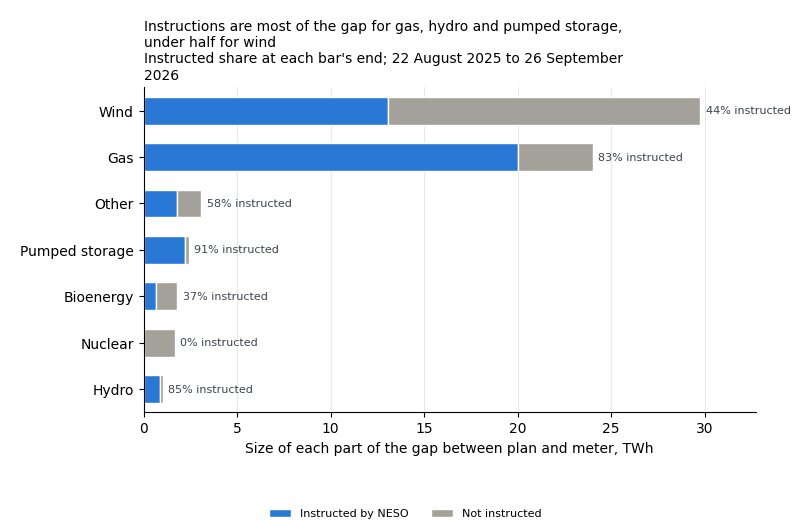
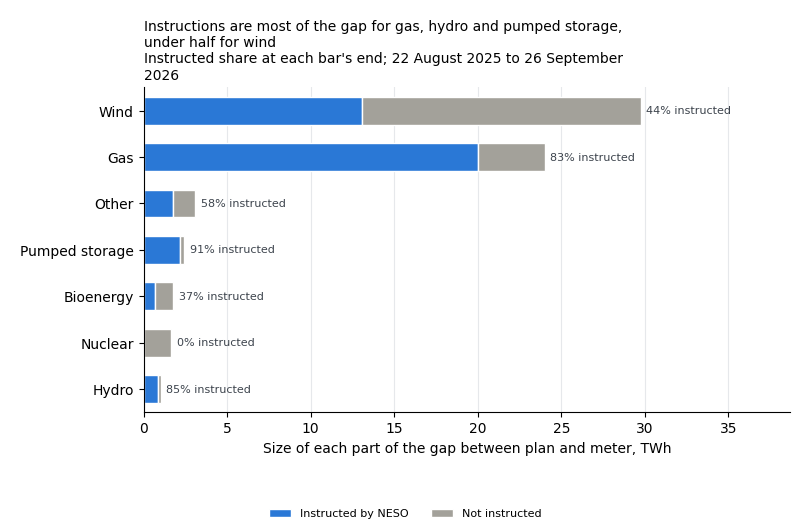
Chart PNGs: axis labels wrapped to fit, room for bar-end labels
The saved image is cut at the figure's edge, so Q3's long x-axis label lost
its end. Every PNG axis label now wraps to fit the figure, and the Q12 and
Q5 bar charts leave room past their longest bar for its end label. Only the
Q3, Q12 and Q5 PNGs change; the other labels already fit.

diff --git a/scripts/readme_charts.py b/scripts/readme_charts.py
@@ -363,6 +363,10 @@ FIGURE_MARGIN_INCHES = 1.6
 DPI = 100
 PAD_INCHES = 0.2
 TITLE_LINE_CHARACTERS = 70
+AXIS_LABEL_CHARACTERS = 75
+# Room past the longest stacked bar for its end label, as a multiple of its
+# length.
+BAR_LABEL_ROOM = 1.3
 MINIMUM_FIGURE_HEIGHT_INCHES = 3.2
 LEGEND_ROW_INCHES = 0.22
 
@@ -498,6 +502,20 @@ def png_title(axes, title, subtitle_lines):
 
 def png_label(label):
     return label.replace("|", "\n")
+
+
+def wrapped_axis_label(text):
+    """An axis label in lines that fit the figure: the saved image is cut at
+    the figure's edge, so a longer line loses its end."""
+    return "\n".join(textwrap.wrap(text, AXIS_LABEL_CHARACTERS, break_on_hyphens=False))
+
+
+def x_label(axes, text):
+    axes.set_xlabel(wrapped_axis_label(text))
+
+
+def y_label(axes, text):
+    axes.set_ylabel(wrapped_axis_label(text))
 
 
 def row_labels(axes, labels):
@@ -847,7 +865,7 @@ def write_q2_chart(rows, output):
     row_labels(axes, labels)
     axes.set_xlim(0, 100)
     axes.set_xticks(SHARE_TICKS)
-    axes.set_xlabel(Q2_AXIS_TITLE)
+    x_label(axes, Q2_AXIS_TITLE)
     png_title(
         axes,
         title,
@@ -934,9 +952,10 @@ def draw_gap_from_plan(rows, path):
     for row in rows:
         labels.append(fuel_group_name(row["fuel_group"]))
     row_labels(axes, labels)
-    axes.set_xlabel(
+    x_label(
+        axes,
         "Plan minus meter, MWh per unit per half-hour "
-        "(left: produced more than planned; right: produced less)"
+        "(left: produced more than planned; right: produced less)",
     )
     png_title(
         axes,
@@ -1063,8 +1082,8 @@ def write_q12_chart(rows, output):
     for row in chart_rows:
         labels.append(fuel_group_name(row["fuel_group"]))
     row_labels(axes, labels)
-    axes.margins(x=0.1)
-    axes.set_xlabel("Size of each part of the gap between plan and meter, TWh")
+    axes.set_xlim(0, max(ends) * BAR_LABEL_ROOM)
+    x_label(axes, "Size of each part of the gap between plan and meter, TWh")
     png_title(
         axes,
         Q12_TITLE,
@@ -1189,8 +1208,8 @@ def write_q5_chart(rows, output):
     for row in chart_rows:
         labels.append(fuel_group_name(row["fuel_group"]))
     row_labels(axes, labels)
-    axes.margins(x=0.1)
-    axes.set_xlabel("Under-delivery, TWh")
+    axes.set_xlim(0, max(ends) * BAR_LABEL_ROOM)
+    x_label(axes, "Under-delivery, TWh")
     png_title(
         axes,
         title,
@@ -1502,7 +1521,7 @@ def draw_typical_gaps(rows, title, path):
         labels.append(fuel_group_name(row["fuel_group"]))
     row_labels(axes, labels)
     axes.set_xlim(0, Q23_TYPICAL_AXIS_TOP)
-    axes.set_xlabel("Gap between plan and meter, % of capacity")
+    x_label(axes, "Gap between plan and meter, % of capacity")
     png_title(axes, title, [Q23_TYPICAL_READING])
     handles = [
         Line2D([], [], color=COMPARISON_COLOUR, linewidth=8, label=Q23_KEY_TYPICAL),
@@ -1680,7 +1699,7 @@ def draw_monthly_gaps(rows, title, path):
     axes.set_xticks(range(len(Q23_CHART_MONTHS)), month_labels, fontsize=7)
     axes.set_xlim(-0.5, last + 2)
     axes.set_ylim(0, Q23_MONTHLY_AXIS_TOP)
-    axes.set_ylabel("Median gap, % of capacity")
+    y_label(axes, "Median gap, % of capacity")
     png_title(axes, title, [Q23_MONTHLY_READING])
     save_figure(figure, path)
 
@@ -1891,7 +1910,7 @@ def write_q24_chart(rows, output):
     row_labels(axes, labels)
     axes.set_xlim(0, 100)
     axes.set_xticks(SHARE_TICKS)
-    axes.set_xlabel(Q24_AXIS_TITLE)
+    x_label(axes, Q24_AXIS_TITLE)
     png_title(axes, Q24_TITLE, ["22 August 2025 to 30 September 2026"])
     save_figure(figure, output / f"{name}.png", legend_handles(axes))
 
@@ -2023,7 +2042,7 @@ def write_q25_chart(corrected_rows, first_read_rows, output):
     axes.set_xscale("log")
     axes.set_xlim(LOG_SHARE_TICKS[0], LOG_SHARE_TICKS[-1])
     axes.set_xticks(LOG_SHARE_TICKS, ["0.01%", "0.1%", "1%", "10%", "100%"])
-    axes.set_xlabel("Instructions under 10 minutes, % (log scale)")
+    x_label(axes, "Instructions under 10 minutes, % (log scale)")
     png_title(
         axes,
         Q25_TITLE,
@@ -2197,7 +2216,7 @@ def draw_shortfall_index(rows, path):
         labels.append(row["label"])
     row_labels(axes, labels)
     axes.set_xlim(95, 130)
-    axes.set_xlabel("Under-delivery not instructed, smallest-miss fifth = 100")
+    x_label(axes, "Under-delivery not instructed, smallest-miss fifth = 100")
     png_title(
         axes,
         Q28_TITLE,
@@ -2345,7 +2364,7 @@ def write_q29_time_chart(rows, output):
     row_labels(axes, labels)
     axes.axvline(0, color=COMPARISON_COLOUR, linewidth=0.8)
     axes.margins(x=0.2)
-    axes.set_xlabel("Mean miss, gCO2/kWh (left: cleaner than forecast; right: dirtier)")
+    x_label(axes, "Mean miss, gCO2/kWh (left: cleaner than forecast; right: dirtier)")
     png_title(
         axes,
         Q29_TIME_TITLE,
@@ -2451,7 +2470,7 @@ def write_q29_month_chart(rows, output):
         )
         month_labels.append(month_of(row["item"]))
     axes.set_xticks(positions, month_labels, rotation=90)
-    axes.set_ylabel("Mean miss, gCO2/kWh")
+    y_label(axes, "Mean miss, gCO2/kWh")
     png_title(
         axes,
         Q29_MONTH_TITLE,
@@ -2572,7 +2591,7 @@ def draw_correlations(rows, path):
         labels.append(row["label"])
     row_labels(axes, labels)
     axes.set_xlim(-0.3, 0.3)
-    axes.set_xlabel("Rank correlation with the stored carbon forecast's miss")
+    x_label(axes, "Rank correlation with the stored carbon forecast's miss")
     png_title(
         axes,
         Q30_TITLE,
